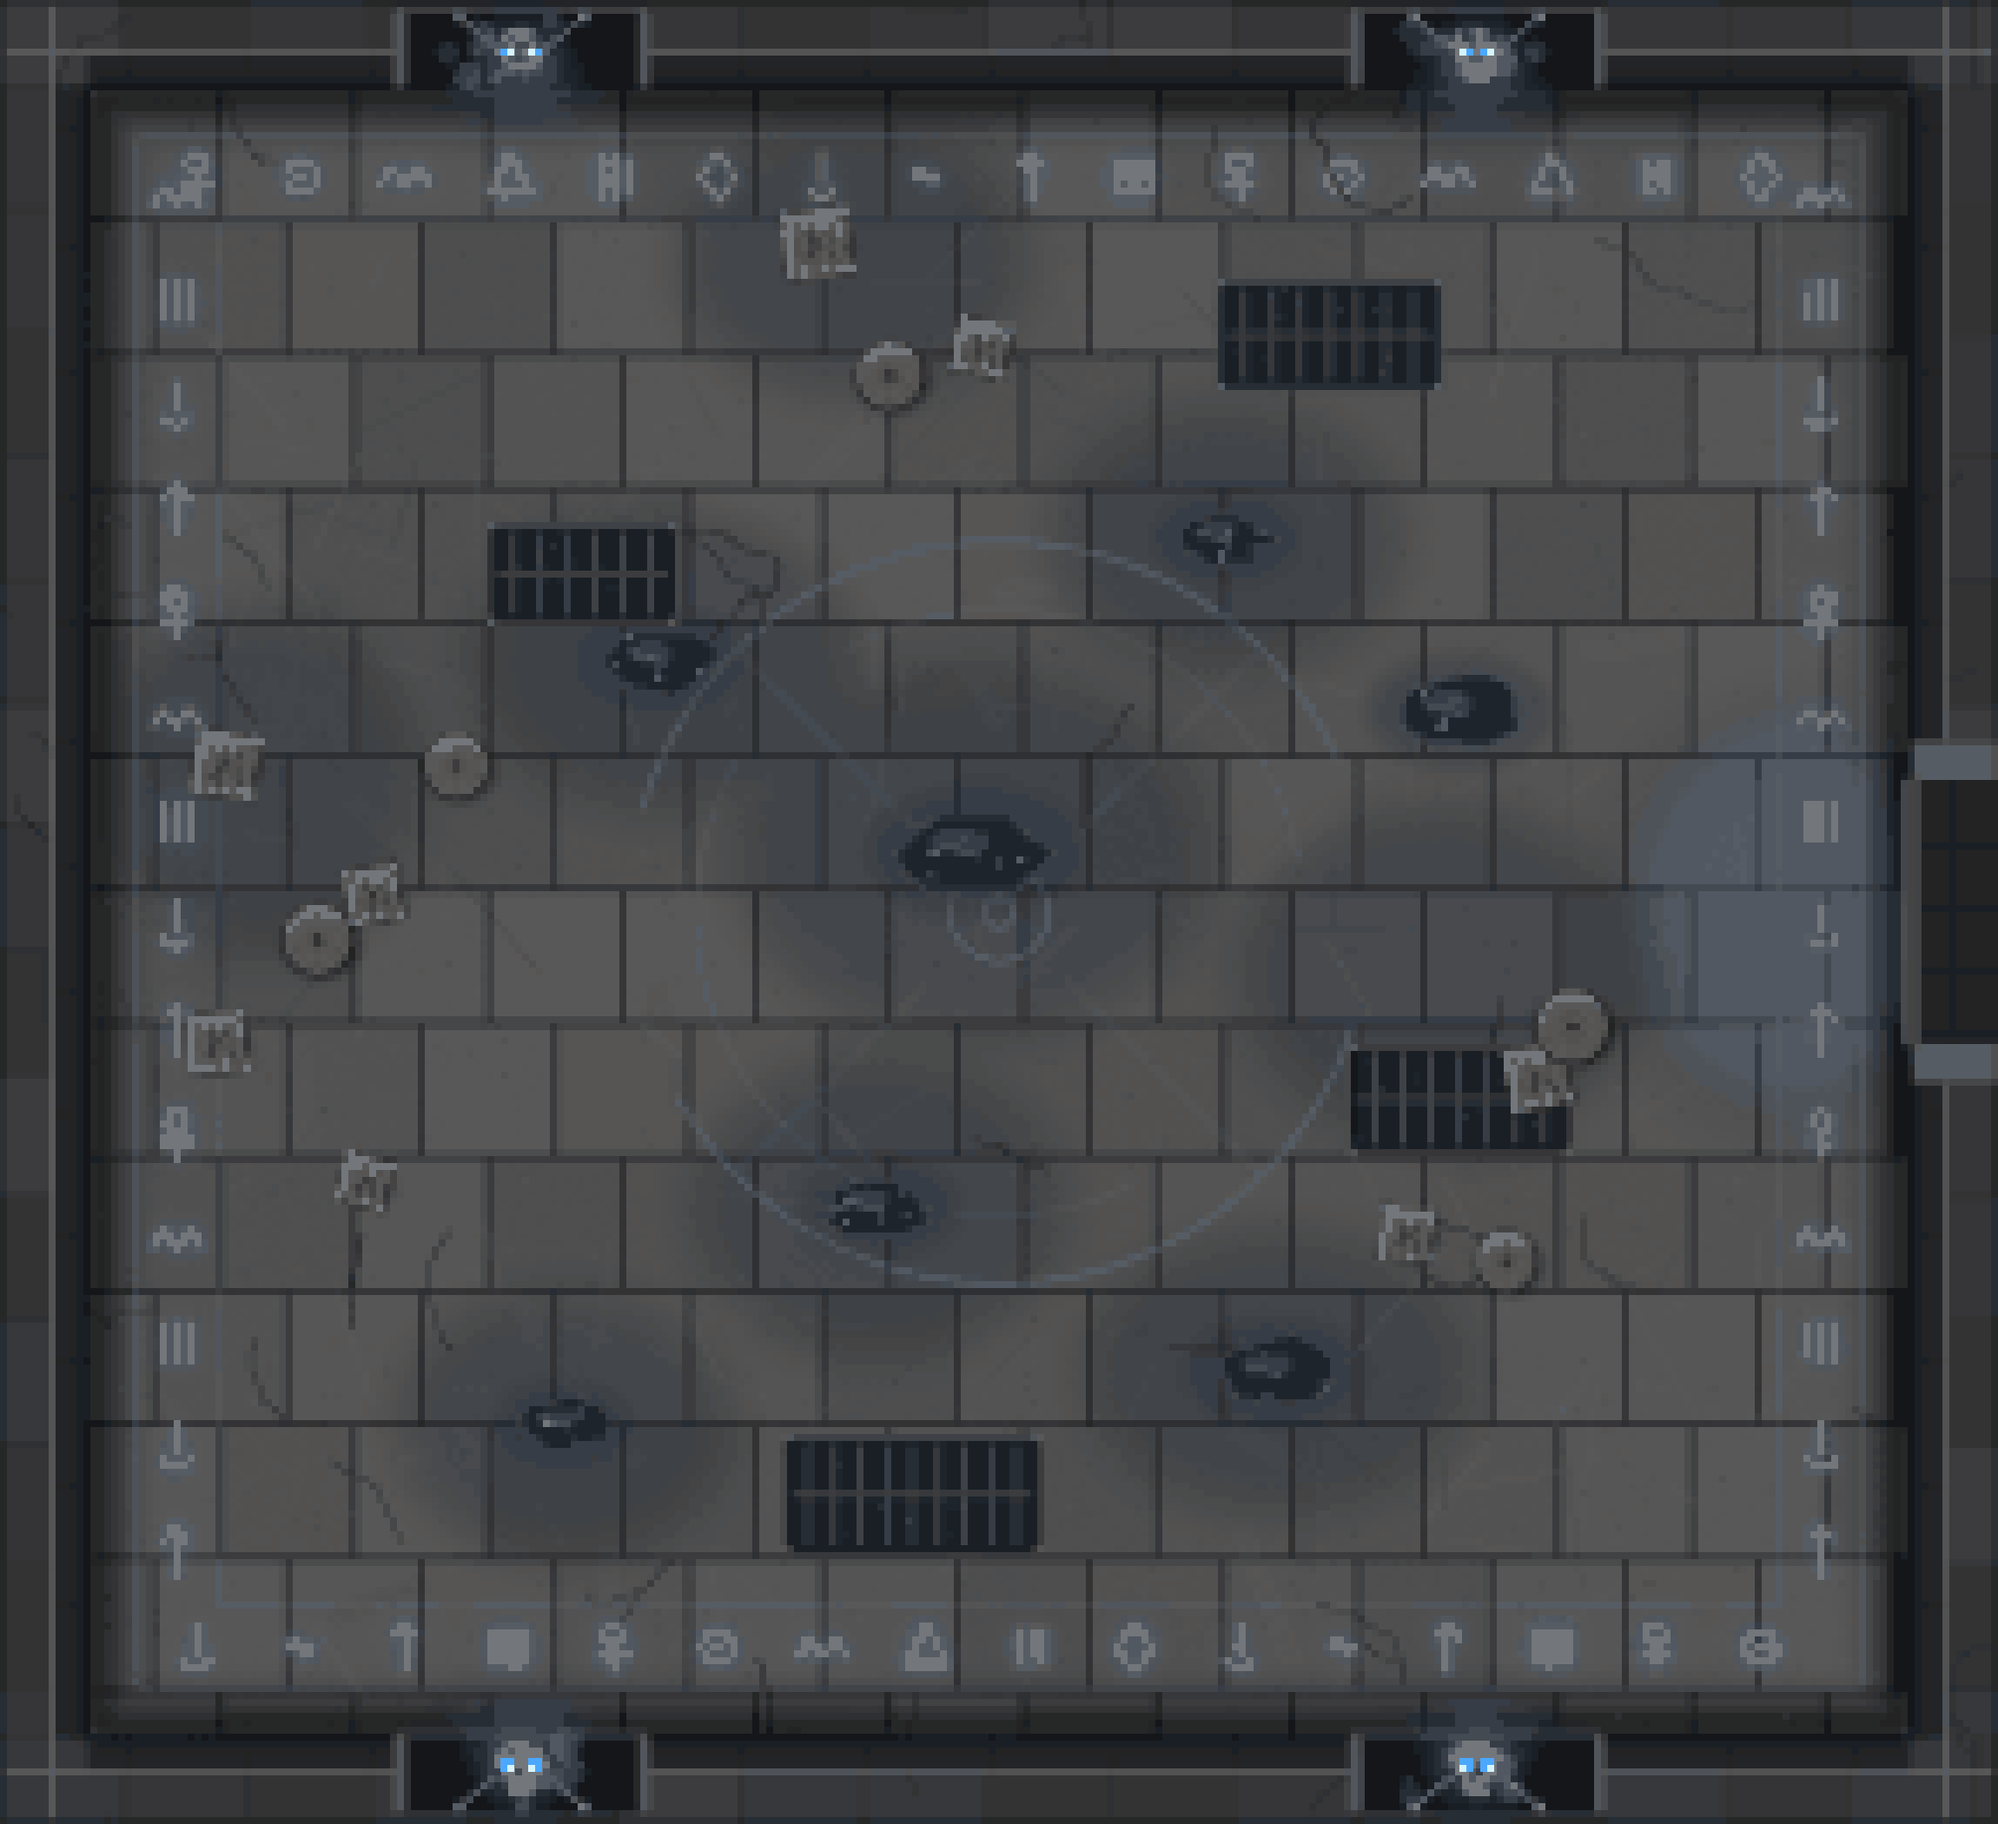
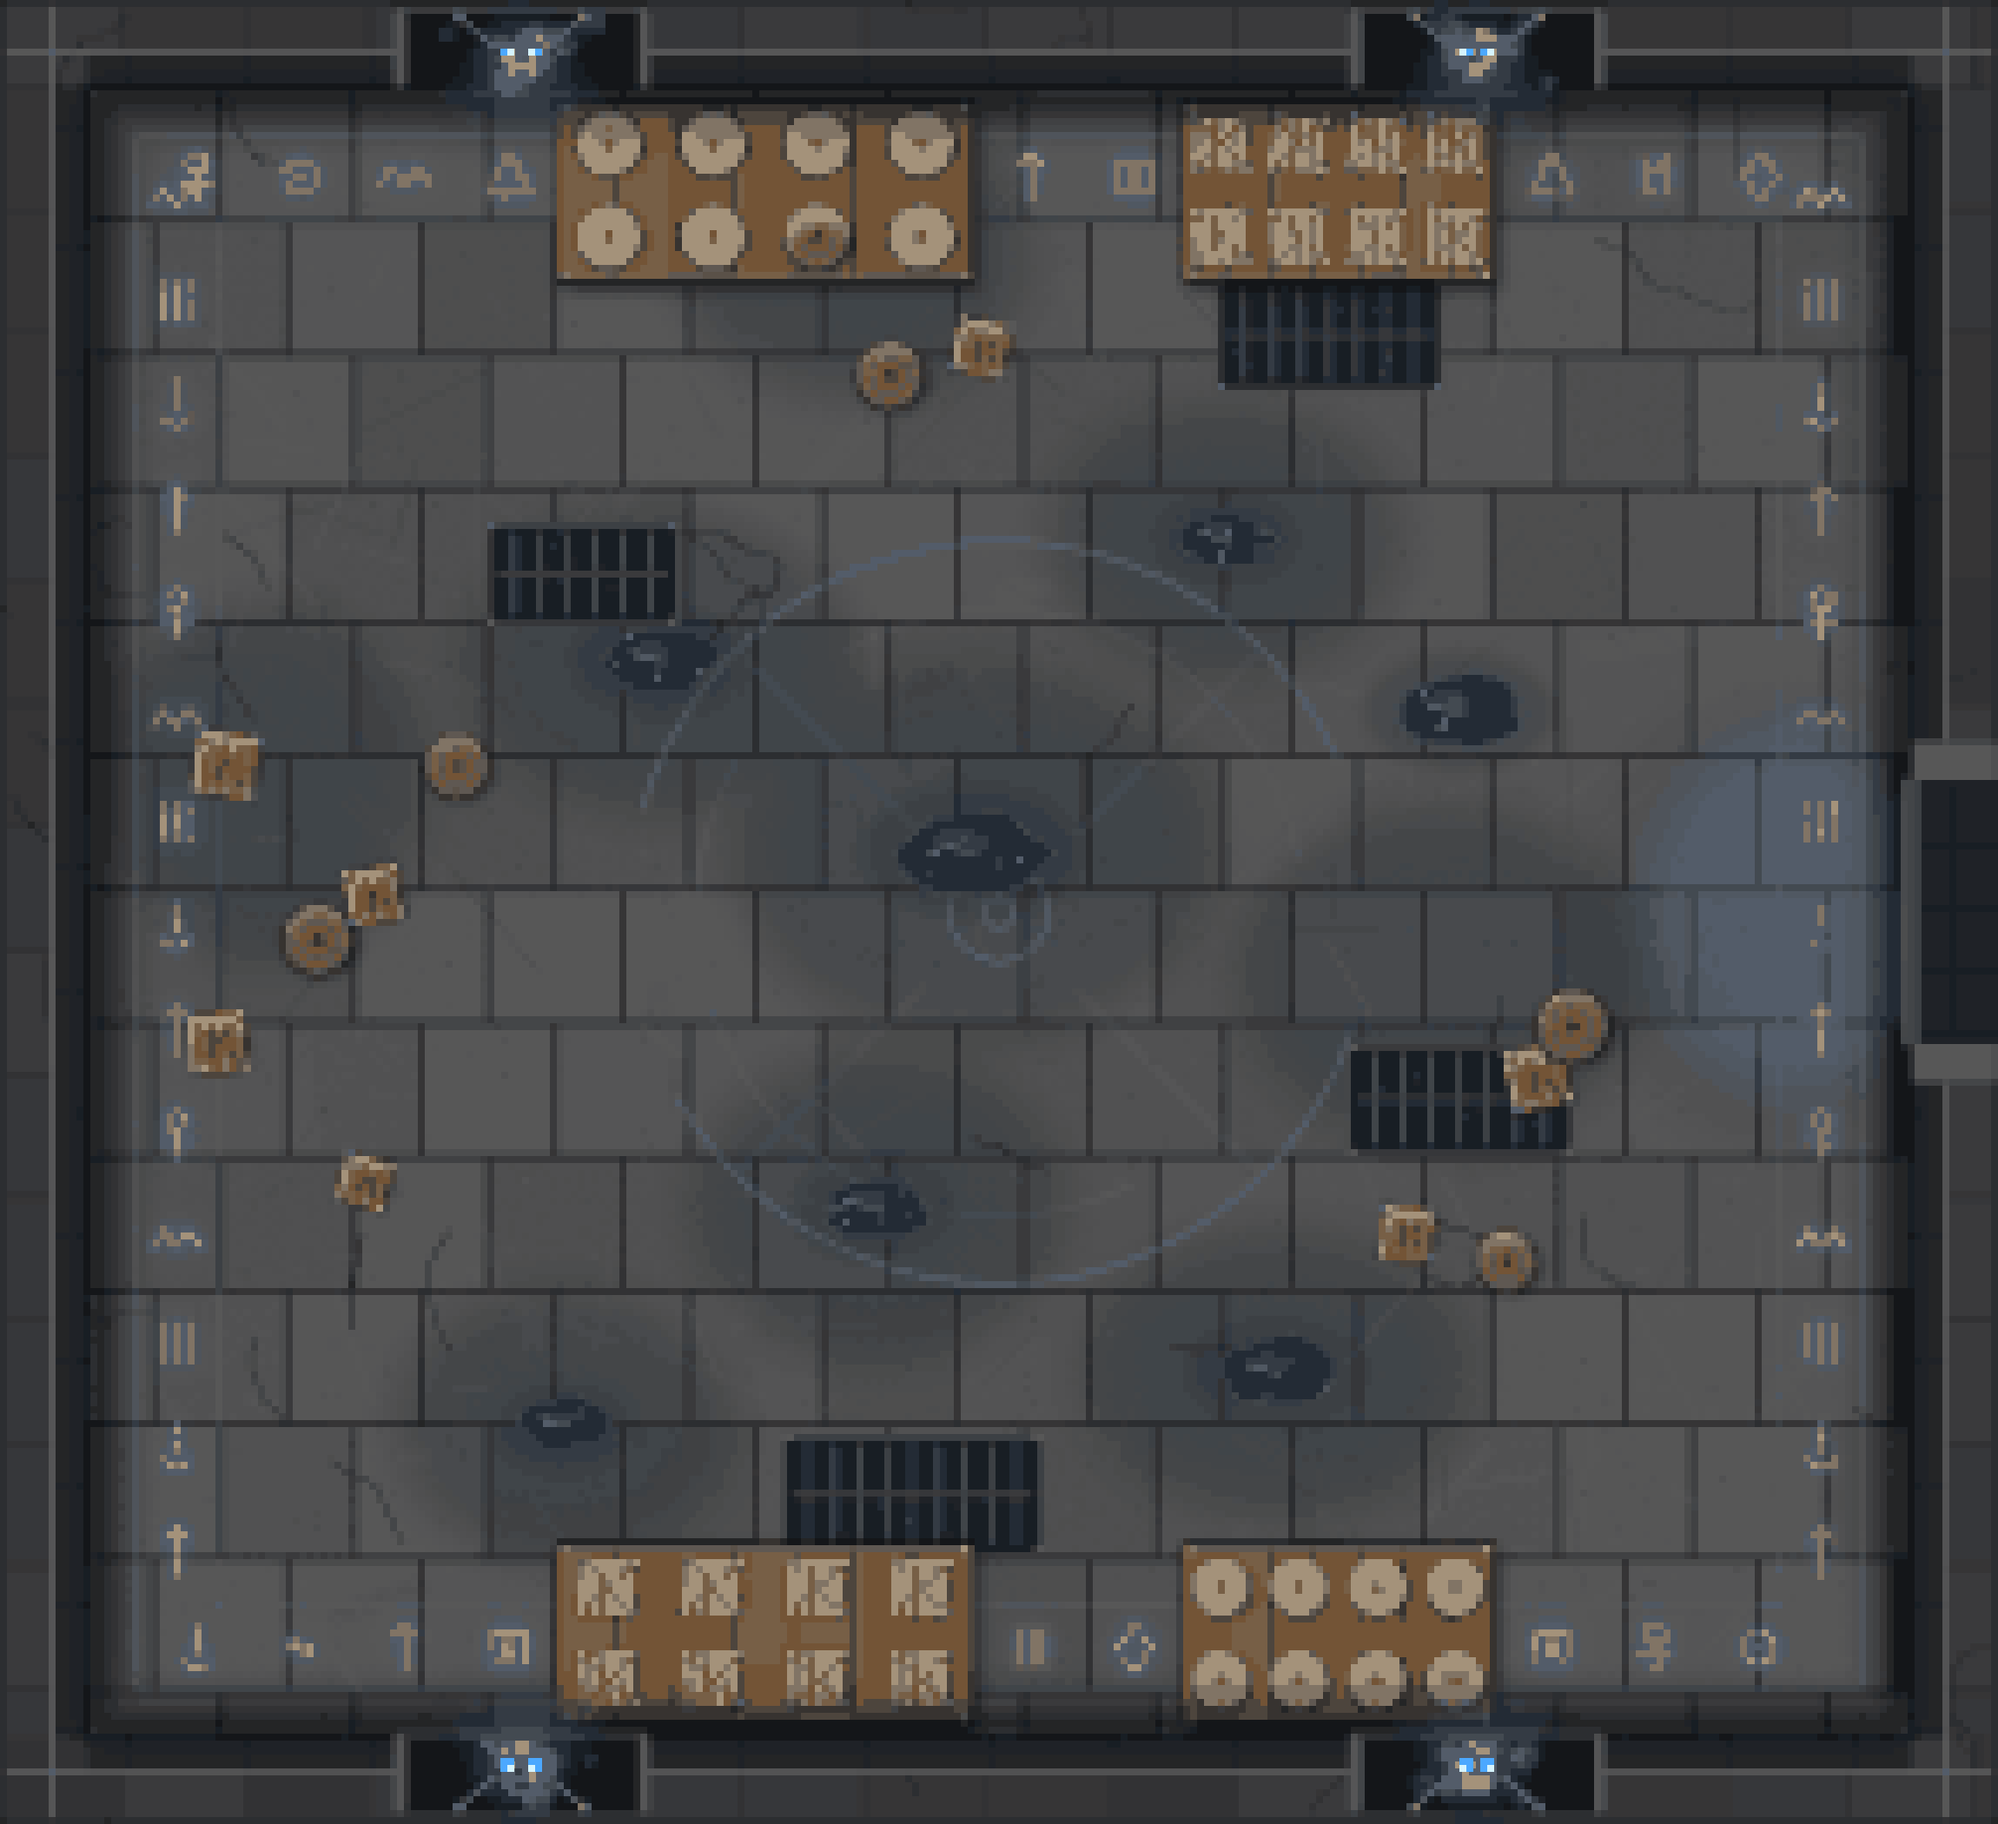
feat: lengthen corridor, add colliding storage racks and grate eyes
Doubles the inscribed corridor to 1500 units and shifts room 2 west to match. Adds symmetrical rack rows (barrels NW/SE, crates NE/SW) with collision, and a scripted amber-eye glimpse that peeks between the metal grate bars at random intervals.

diff --git a/tools/generate_room2.py b/tools/generate_room2.py
@@ -3,11 +3,12 @@ to the main arena, and the animated props those rooms need.
 
 Assets written next to arena_map.png:
   room2_map.png         2300x2100 floor plan (1800x1800-style stone, but colder)
-  corridor_map.png       750x500  connecting passage
-  corridor_glyphs.png    750x500  pulsing inscription overlay for the corridor
+  corridor_map.png      1500x500  connecting passage
+  corridor_glyphs.png   1500x500  pulsing inscription overlay for the corridor
   summon_ring.png        400x400  corner ritual ring
   torch_flame_blue.png   768x160  6-frame blue flame sheet
   water_ripple.png        96x96   expanding ring used by puddle_ripples.gd
+  grate_eyes.png         120x48   monster eyes seen between grate bars
 """
 
 from PIL import Image, ImageDraw, ImageFilter, ImageChops
@@ -22,13 +23,13 @@ ROOM_W, ROOM_H = 2300, 2100
 WALL = 100
 ROOM_CX, ROOM_CY = ROOM_W // 2, ROOM_H // 2
 
-COR_W, COR_H = 750, 500
+COR_W, COR_H = 1500, 500
 COR_CX, COR_CY = COR_W // 2, COR_H // 2
 
 # texture pixel -> world position helpers are only shown in comments; the room
-# sprite is placed at (-2700, 0) and the corridor sprite at (-1275, 0).
-# room2:  world_x = local_x - 3850, world_y = local_y - 1050
-# corridor: world_x = local_x - 1650, world_y = local_y - 250
+# sprite is placed at (-3450, 0) and the corridor sprite at (-1650, 0).
+# room2:  world_x = local_x - 4600, world_y = local_y - 1050
+# corridor: world_x = local_x - 2400, world_y = local_y - 250
 
 FLOOR_BASE = (79, 79, 79)
 WALL_BASE = (47, 47, 49)
@@ -483,6 +484,21 @@ def paste_prop(tile, cx, cy, angle=0.0, shadow_rx=None, shadow_ry=None):
     img.alpha_composite(t, (int(cx - t.width / 2), int(cy - t.height / 2)))
 
 
+def paste_rack_prop(tile, cx, cy, angle=0.0, shadow_rx=None, shadow_ry=None):
+    """Like paste_prop, but casts its shadow onto the rack instead of the floor."""
+    if shadow_rx is None:
+        shadow_rx = tile.width * 0.44
+    if shadow_ry is None:
+        shadow_ry = tile.height * 0.34
+    sh = layer()
+    shd = ImageDraw.Draw(sh)
+    shd.ellipse([cx - shadow_rx + 3, cy - shadow_ry + 5, cx + shadow_rx + 3, cy + shadow_ry + 5],
+                fill=(0, 0, 0, 115))
+    img.alpha_composite(sh.filter(ImageFilter.GaussianBlur(4)))
+    t = tile.rotate(angle, resample=Image.BICUBIC, expand=True)
+    img.alpha_composite(t, (int(cx - t.width / 2), int(cy - t.height / 2)))
+
+
 for cx, cy, sz, ang in [
     (260, 880, 84, -8), (430, 1030, 72, 11), (250, 1200, 80, 5), (420, 1360, 66, -14),
     (940, 280, 88, 7), (1130, 400, 72, -10), (1770, 1240, 82, 12), (1620, 1420, 70, -6),
@@ -493,6 +509,58 @@ for cx, cy, rr in [
     (366, 1082, 42), (526, 882, 38), (1024, 432, 40), (1810, 1182, 44), (1734, 1452, 36),
 ]:
     paste_prop(barrel_tile(rr), cx, cy, 0.0, rr * 1.05, rr * 0.9)
+
+# ------------------------------------------------------------ storage racks
+def rack_base(x0, y0, x1, y1):
+    """Low timber shelf with iron rails, drawn on the floor before its cargo."""
+    sh = layer()
+    sd = ImageDraw.Draw(sh)
+    sd.rectangle([x0 + 6, y0 + 8, x1 + 6, y1 + 8], fill=(0, 0, 0, 125))
+    img.alpha_composite(sh.filter(ImageFilter.GaussianBlur(8)))
+
+    d.rectangle([x0, y0, x1, y1], fill=(70, 49, 29, 255), outline=(34, 23, 12, 255), width=6)
+    planks = 7
+    for i in range(planks):
+        px0 = x0 + (x1 - x0) * i / planks
+        px1 = x0 + (x1 - x0) * (i + 1) / planks
+        d.rectangle([px0 + 3, y0 + 5, px1 - 3, y1 - 5], fill=shade((128, 90, 52), 9) + (255,))
+        d.line([px0 + 5, y0 + 8, px0 + 5, y1 - 8], fill=(176, 132, 78, 150), width=2)
+
+    # iron rails along the long edges
+    for ry in (y0 + 7, y1 - 7):
+        d.line([x0 + 10, ry, x1 - 10, ry], fill=(74, 76, 82, 255), width=4)
+        d.line([x0 + 10, ry - 2, x1 - 10, ry - 2], fill=(138, 142, 148, 255), width=1)
+    for bx in (x0 + 10, x1 - 10):
+        for by in (y0 + 10, y1 - 10):
+            d.ellipse([bx - 5, by - 5, bx + 5, by + 5], fill=(104, 106, 112, 255))
+            d.ellipse([bx - 2, by - 2, bx + 2, by + 2], fill=(184, 186, 190, 255))
+
+
+def barrel_rack(x0, y0, x1, y1, radius=40):
+    rack_base(x0, y0, x1, y1)
+    cols, rows = 4, 2
+    for r in range(rows):
+        for c in range(cols):
+            cx = x0 + (x1 - x0) * (c + 0.5) / cols
+            cy = y0 + (y1 - y0) * (r + 0.5) / rows
+            paste_rack_prop(barrel_tile(radius), cx, cy, 0.0, radius, radius * 0.86)
+
+
+def crate_rack(x0, y0, x1, y1, size=76):
+    rack_base(x0, y0, x1, y1)
+    cols, rows = 4, 2
+    for r in range(rows):
+        for c in range(cols):
+            cx = x0 + (x1 - x0) * (c + 0.5) / cols
+            cy = y0 + (y1 - y0) * (r + 0.5) / rows
+            paste_rack_prop(crate_tile(size), cx, cy, random.uniform(-5.0, 5.0))
+
+
+# barrels top-left / bottom-right, crates top-right / bottom-left
+barrel_rack(640, 112, 1120, 326)
+crate_rack(1360, 112, 1720, 326)
+crate_rack(640, 1774, 1120, 1988)
+barrel_rack(1360, 1774, 1720, 1988, 36)
 
 img.alpha_composite(prop_shadow.filter(ImageFilter.GaussianBlur(6)))
 
@@ -720,8 +788,9 @@ def draw_corridor_puddle(cx, cy, rx, ry):
     cd.line([cx - rx * 0.4, cy - ry * 0.1, cx + rx * 0.2, cy + ry * 0.1], fill=(92, 132, 158, 120), width=3)
 
 
-draw_corridor_puddle(300, 240, 58, 32)
-draw_corridor_puddle(560, 320, 70, 36)
+draw_corridor_puddle(360, 240, 58, 32)
+draw_corridor_puddle(760, 320, 70, 36)
+draw_corridor_puddle(1140, 230, 62, 34)
 
 # inscriptions on both walls
 cdd.rectangle([0, 12, COR_W - 1, 13], fill=(112, 140, 170, 70))
@@ -797,8 +866,8 @@ def corridor_sconce(cx, side):
     add_glow(cimg, cx, open_y, 74, 48, (44, 116, 216, 72), 18)
 
 
-corridor_sconce(240, "top")
-corridor_sconce(510, "bottom")
+corridor_sconce(450, "top")
+corridor_sconce(1050, "bottom")
 
 # vignette
 cvig = Image.new("L", (COR_W, COR_H), 0)
@@ -933,9 +1002,43 @@ ripple = ripple_small.resize((RIP, RIP), Image.NEAREST)
 ripple_path = os.path.join(OUT_DIR, "water_ripple.png")
 ripple.save(ripple_path)
 
+# ============================================================= GRATE EYES
+random.seed(76)
+EYE_W, EYE_H = 120, 48
+eyes = Image.new("RGBA", (EYE_W, EYE_H), (0, 0, 0, 0))
+ed = ImageDraw.Draw(eyes)
+
+# a barely-there head behind the bars
+presence = Image.new("RGBA", (EYE_W, EYE_H), (0, 0, 0, 0))
+pd2 = ImageDraw.Draw(presence)
+pd2.ellipse([26, 1, 94, 44], fill=(6, 3, 2, 130))
+eyes.alpha_composite(presence.filter(ImageFilter.GaussianBlur(6)))
+
+for ex in (44, 76):
+    glow = Image.new("RGBA", (EYE_W, EYE_H), (0, 0, 0, 0))
+    gd3 = ImageDraw.Draw(glow)
+    gd3.ellipse([ex - 15, 2, ex + 15, 20], fill=(255, 118, 36, 115))
+    eyes.alpha_composite(glow.filter(ImageFilter.GaussianBlur(5)))
+    ed.ellipse([ex - 10, 6, ex + 10, 18], fill=(18, 7, 3, 235))
+    ed.ellipse([ex - 8, 7, ex + 8, 17], fill=(255, 148, 46, 235))
+    ed.ellipse([ex - 2, 7, ex + 2, 17], fill=(26, 10, 4, 255))
+    ed.ellipse([ex - 6, 8, ex - 3, 11], fill=(255, 236, 180, 240))
+
+# hide anything that would overlap the grate's vertical bars and crossbar
+eye_mask = Image.new("L", (EYE_W, EYE_H), 255)
+emd = ImageDraw.Draw(eye_mask)
+for bx in (-3, 27, 57, 87, 117):
+    emd.rectangle([bx, 0, bx + 5, EYE_H], fill=0)
+emd.rectangle([0, 20, EYE_W, 27], fill=0)
+eyes.putalpha(ImageChops.multiply(eyes.getchannel("A"), eye_mask))
+
+eye_path = os.path.join(OUT_DIR, "grate_eyes.png")
+eyes.save(eye_path)
+
 print("saved", room_path, img.size)
 print("saved", cor_path, cimg.size)
 print("saved", cor_glyph_path, c_glyph_px.size)
 print("saved", ring_path, ring.size)
 print("saved", blue_path, blue_sheet.size)
 print("saved", ripple_path, ripple.size)
+print("saved", eye_path, eyes.size)
